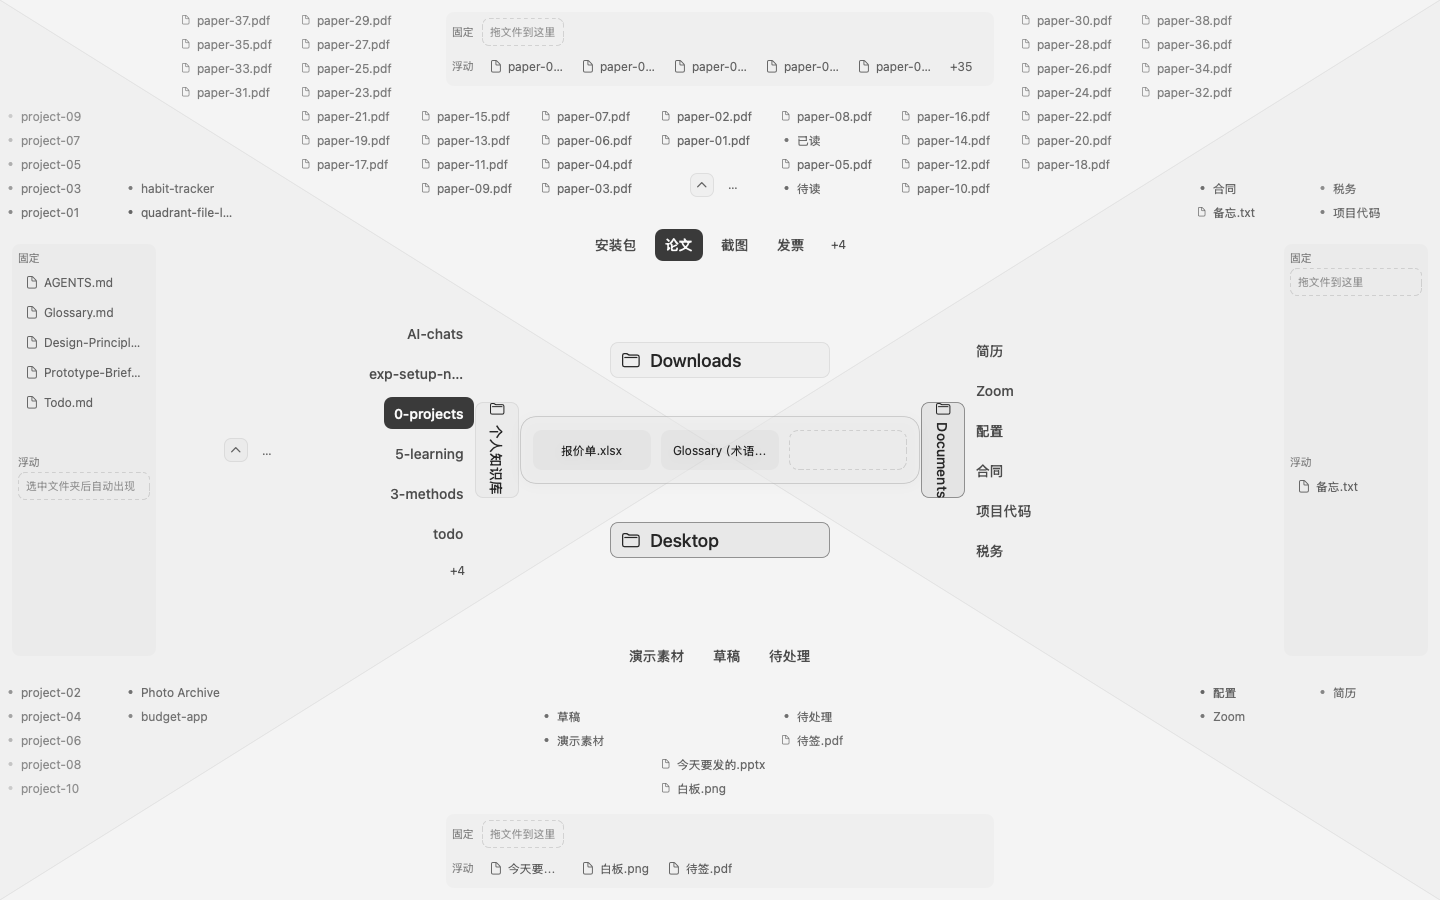
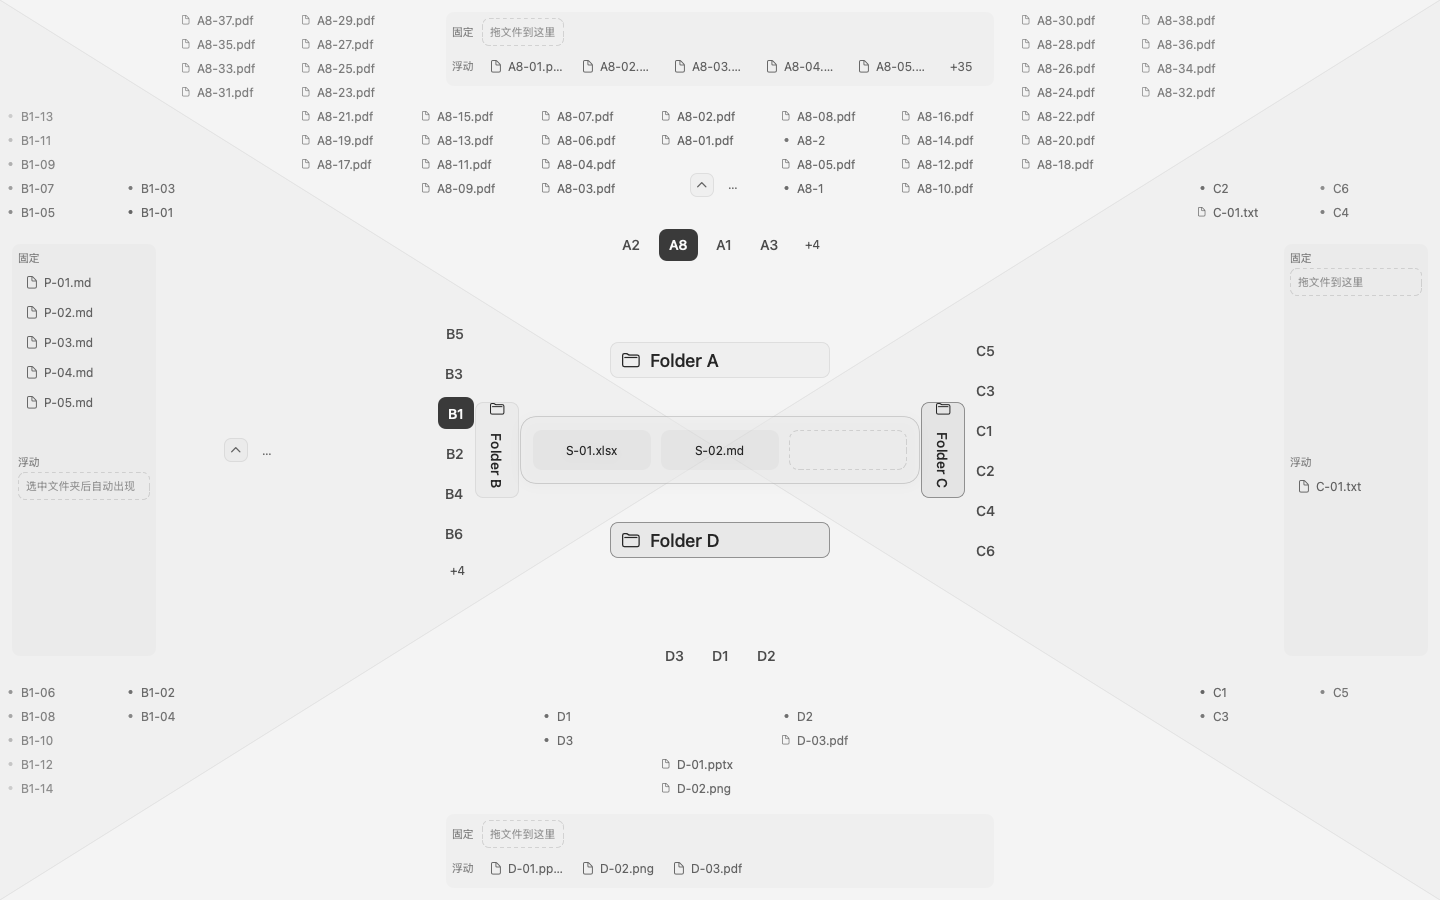
Release 0.1.3

diff --git a/Sources/UIPreview/main.swift b/Sources/UIPreview/main.swift
@@ -17,59 +17,59 @@ func file(_ path: NodePath, ageDays: Double = 1) -> FolderNode {
     FolderNode(path: path, kind: .file, modifiedAt: now.addingTimeInterval(-ageDays * 86_400))
 }
 
+// Every folder and file name is a code (quadrant letter + number) so screenshots show no real names.
 let home = NodePath("/Users/preview")
-let downloads = home.appending("Downloads")
-let documents = home.appending("Documents")
-let desktop = home.appending("Desktop")
-let knowledge = home.appending("个人知识库")
+let downloads = home.appending("Folder A")
+let knowledge = home.appending("Folder B")
+let documents = home.appending("Folder C")
+let desktop = home.appending("Folder D")
 
-// Downloads: 8 branches, focus 论文 with 40 files.
-let papers = downloads.appending("论文")
+func codes(_ prefix: String, _ range: ClosedRange<Int>, _ format: String = "%02d", ext: String = "") -> [String] {
+    range.map { prefix + String(format: format, $0) + ext }
+}
+
+// Folder A: 8 branches, focus A8 with 40 files.
+let papers = downloads.appending("A8")
 let downloadsTree = folder(
     downloads,
-    children: ["截图", "安装包", "发票", "合同扫描", "照片", "视频", "音频"].enumerated().map {
+    children: codes("A", 1...7, "%d").enumerated().map {
         folder(downloads.appending($0.element), ageDays: Double($0.offset) + 3)
     } + [
         folder(
             papers, ageDays: 0.5,
-            children: [folder(papers.appending("待读")), folder(papers.appending("已读"), ageDays: 2)]
-                + (1...40).map { file(papers.appending(String(format: "paper-%02d.pdf", $0)), ageDays: Double($0) * 0.3) })
+            children: [folder(papers.appending("A8-1")), folder(papers.appending("A8-2"), ageDays: 2)]
+                + codes("A8-", 1...40, ext: ".pdf").enumerated().map { file(papers.appending($0.element), ageDays: Double($0.offset + 1) * 0.3) })
     ])
 
-// Knowledge base: 10 branches, focus 0-projects with 37 stars.
-let work = knowledge.appending("0-projects")
-let realStars = ["quadrant-file-launcher", "Photo Archive", "habit-tracker", "budget-app"]
-let starFolders =
-    realStars.enumerated().map { folder(work.appending($0.element), ageDays: Double($0.offset) * 4) }
-    + (1...33).map { folder(work.appending(String(format: "project-%02d", $0)), ageDays: Double($0) * 1.5) }
+// Folder B: 10 branches, focus B1 with 37 stars.
+let work = knowledge.appending("B1")
+let starFolders = codes("B1-", 1...37).enumerated().map { folder(work.appending($0.element), ageDays: Double($0.offset) * 1.5) }
 let knowledgeTree = folder(
     knowledge,
     children: [folder(work, children: starFolders)]
-        + ["5-learning", "exp-setup-notes", "3-methods", "AI-chats", "todo", "2-research", "100-ideas", "F-guides", "H-sharing"]
-            .enumerated().map { folder(knowledge.appending($0.element), ageDays: Double($0.offset) * 6 + 5) })
+        + codes("B", 2...10, "%d").enumerated().map { folder(knowledge.appending($0.element), ageDays: Double($0.offset) * 6 + 5) })
 
 let documentsTree = folder(
     documents,
-    children: ["配置", "合同", "Zoom", "项目代码", "简历", "税务"].enumerated().map {
+    children: codes("C", 1...6, "%d").enumerated().map {
         folder(
             documents.appending($0.element), ageDays: Double($0.offset) + 1,
-            children: $0.offset == 0
-                ? ["zsh", "raycast", "karabiner", "git"].map { folder(documents.appending("配置").appending($0)) } : [])
-    } + [file(documents.appending("备忘.txt"))])
+            children: $0.offset == 0 ? codes("C1-", 1...4, "%d").map { folder(documents.appending("C1").appending($0)) } : [])
+    } + [file(documents.appending("C-01.txt"))])
 
 let desktopTree = folder(
     desktop,
-    children: ["演示素材", "待处理", "草稿"].map { folder(desktop.appending($0)) }
-        + ["今天要发的.pptx", "白板.png", "待签.pdf"].enumerated().map { file(desktop.appending($0.element), ageDays: Double($0.offset)) })
+    children: codes("D", 1...3, "%d").map { folder(desktop.appending($0)) }
+        + ["D-01.pptx", "D-02.png", "D-03.pdf"].enumerated().map { file(desktop.appending($0.element), ageDays: Double($0.offset)) })
 
 let state = PersistentState(
     roots: [.top: downloads, .left: knowledge, .right: documents, .bottom: desktop],
-    focus: [downloads: papers, knowledge: work, documents: documents.appending("配置")],
+    focus: [downloads: papers, knowledge: work, documents: documents.appending("C1")],
     stash: [
-        StashItem(targetPath: home.appending("报价单.xlsx"), kind: .file, addedAt: now.addingTimeInterval(-60)),
-        StashItem(targetPath: home.appending("Glossary（术语表）.md"), kind: .file, addedAt: now),
+        StashItem(targetPath: home.appending("S-01.xlsx"), kind: .file, addedAt: now.addingTimeInterval(-60)),
+        StashItem(targetPath: home.appending("S-02.md"), kind: .file, addedAt: now),
     ],
-    pinnedSlots: ["AGENTS.md", "Glossary.md", "Design-Principles.md", "Prototype-Brief.md", "Todo.md"].enumerated().map {
+    pinnedSlots: codes("P-", 1...5, ext: ".md").enumerated().map {
         PinnedSlot(edge: .left, targetPath: knowledge.appending($0.element), addedAt: now.addingTimeInterval(Double($0.offset)))
     })
 
@@ -103,15 +103,15 @@ func makeModel(lens: Bool) -> PanelRenderModel {
         model.lens = LensModel(
             mode: .folder(edge: .top, crumbs: [downloads, papers]),
             rows: [
-                LensRow(path: papers.appending("已读"), kind: .folder, modifiedAt: Date().addingTimeInterval(-2 * 86_400)),
-                LensRow(path: papers.appending("待读"), kind: .folder, modifiedAt: Date().addingTimeInterval(-40 * 86_400)),
+                LensRow(path: papers.appending("A8-2"), kind: .folder, modifiedAt: Date().addingTimeInterval(-2 * 86_400)),
+                LensRow(path: papers.appending("A8-1"), kind: .folder, modifiedAt: Date().addingTimeInterval(-40 * 86_400)),
             ]
                 + (1...38).map {
                     LensRow(
-                        path: papers.appending(String(format: "paper-%02d.pdf", $0)), kind: .file,
+                        path: papers.appending(String(format: "A8-%02d.pdf", $0)), kind: .file,
                         modifiedAt: Date().addingTimeInterval(-Double($0) * 40_000 - 400_000), size: Int64($0) * 311_000)
                 })
-        model.keyboardSelection = papers.appending("paper-01.pdf")
+        model.keyboardSelection = papers.appending("A8-01.pdf")
     }
     return model
 }
